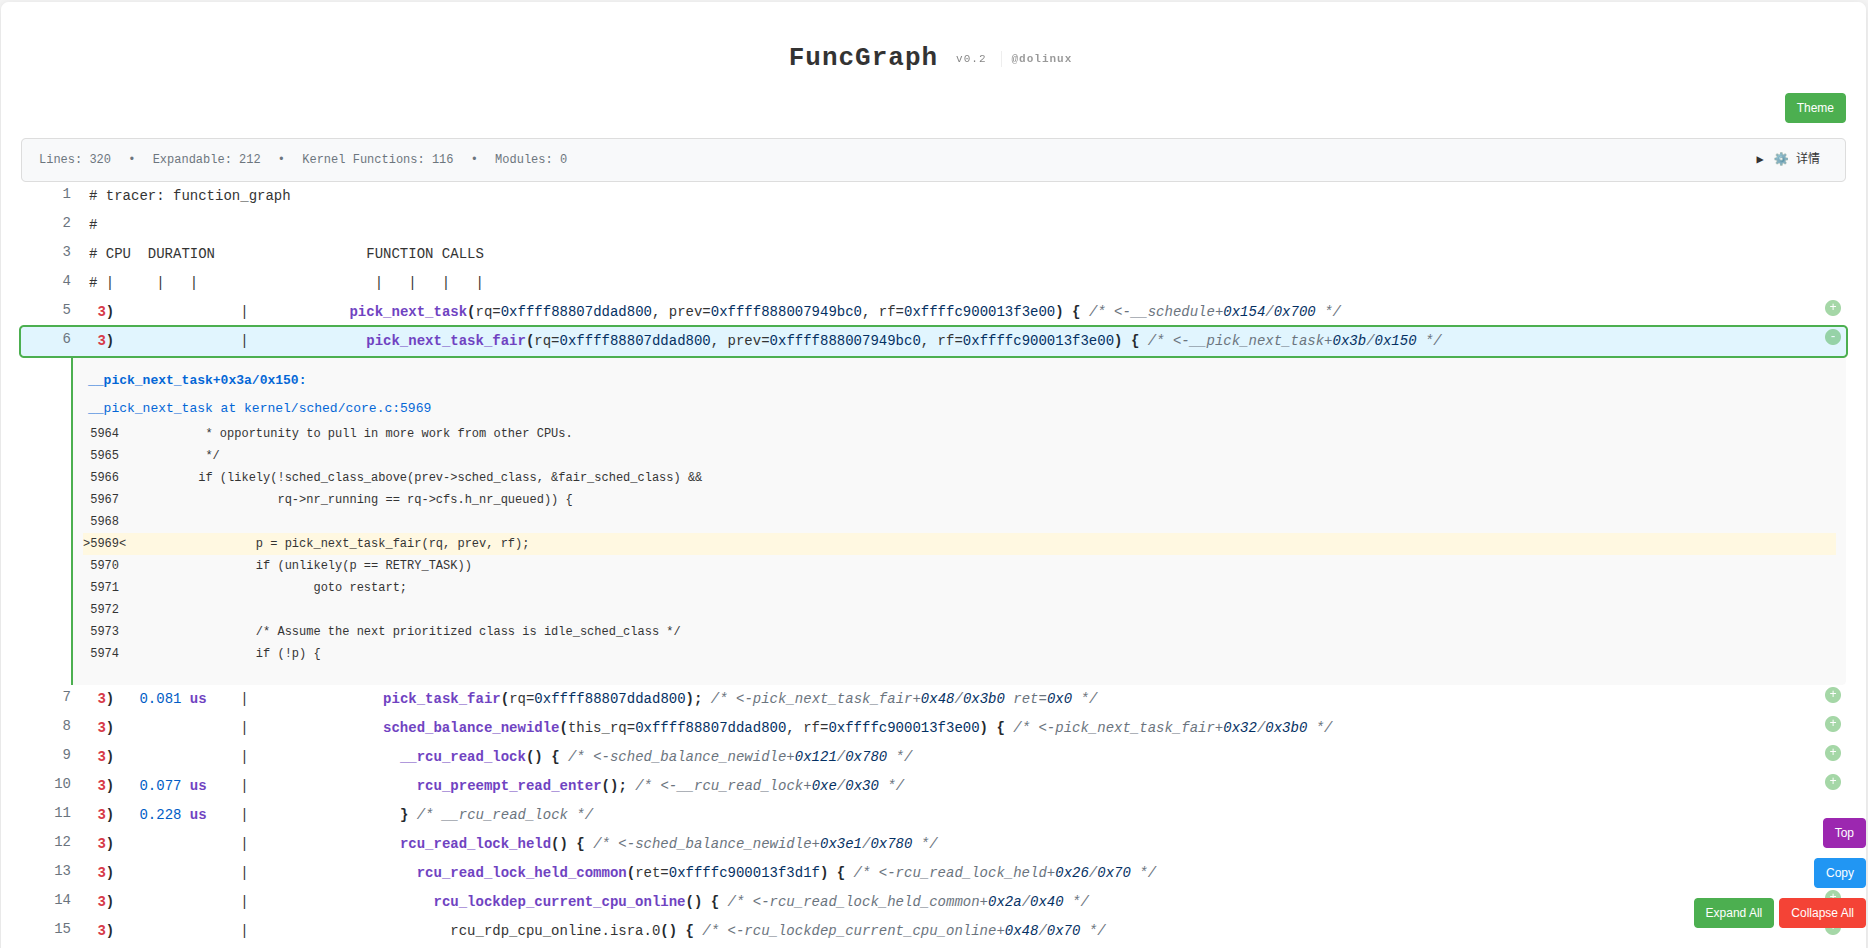
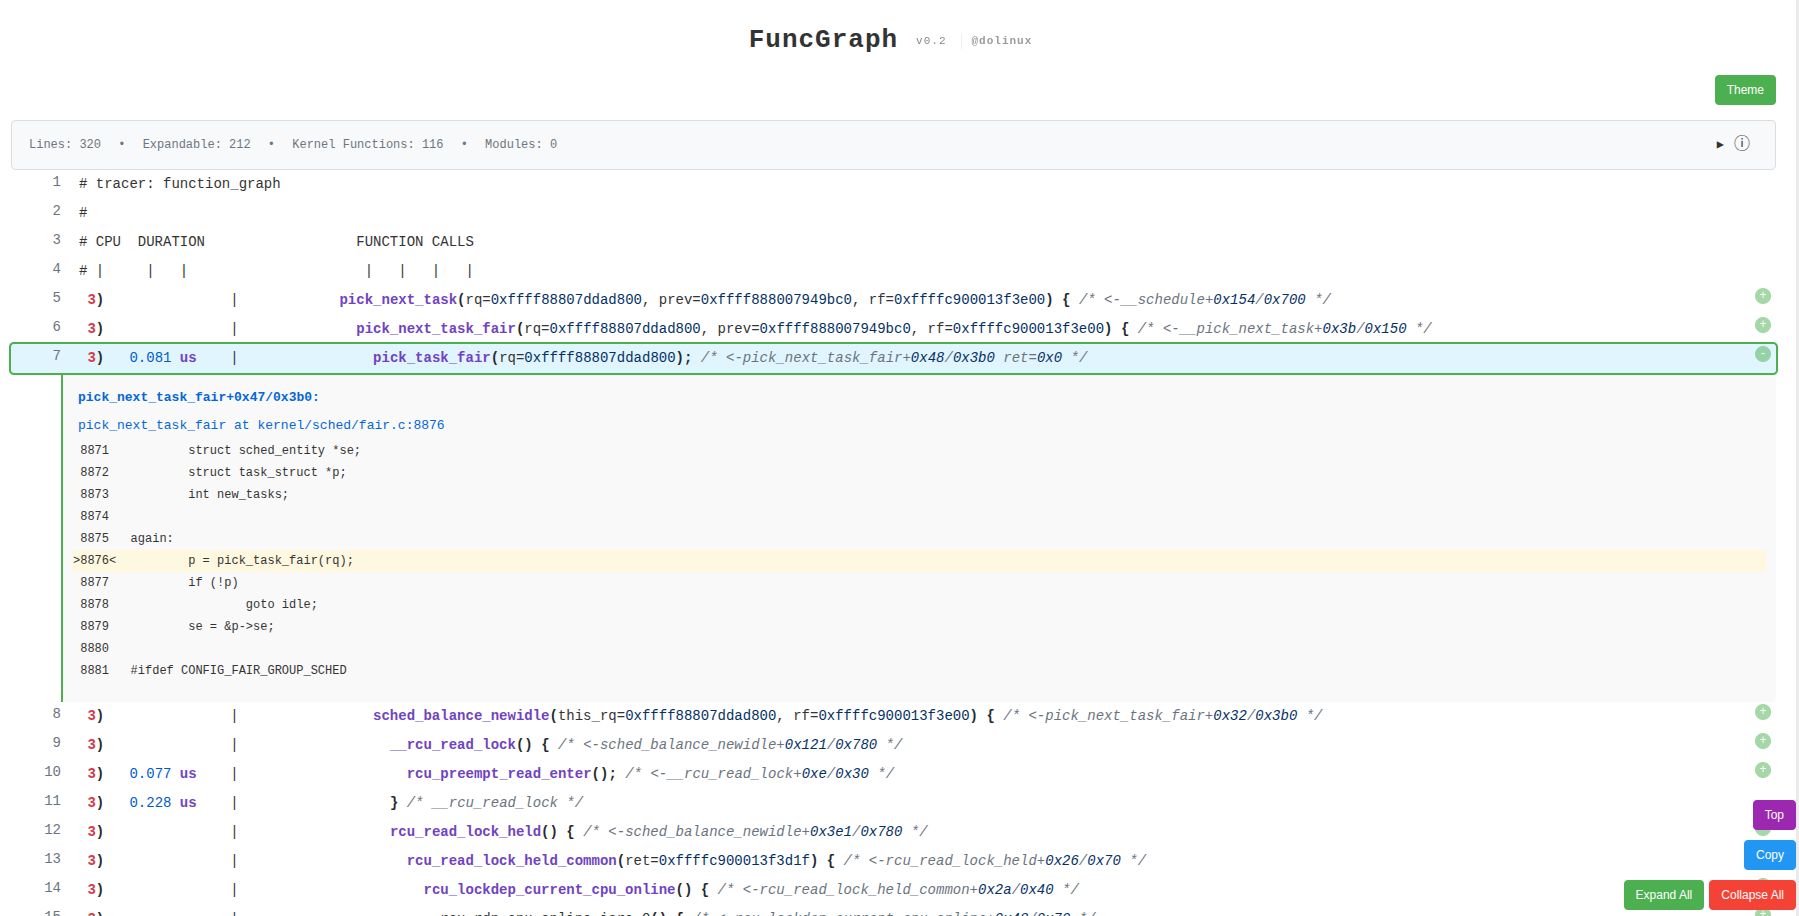
Update sample files

diff --git a/sample.html b/sample.html
@@ -335,7 +335,7 @@
             padding: 4px 8px;
             border-radius: 4px;
             transition: background-color 0.2s;
-            font-size: 12px;
+            font-size: 16px;
             color: var(--text-color);
             white-space: nowrap;
         }
@@ -728,7 +728,7 @@
             </div>
             <div class="info-toggle-btn" onclick="toggleInfoPanel()">
                 <span class="info-toggle-icon">▶</span>
-                <span>⚙ 详情</span>
+                <span>ⓘ</span>
             </div>
         </div>
         
@@ -738,20 +738,22 @@
                 <div class="info-item"><div class="info-label">OS:</div><div class="info-value">Linux 6.8.0-90-generic</div></div>
                 <div class="info-item"><div class="info-label">Hostname:</div><div class="info-value">pengdl-pc</div></div>
                 <div class="info-item"><div class="info-label">Processor:</div><div class="info-value">x86_64</div></div>
-                <div class="info-item"><div class="info-label">Generated At:</div><div class="info-value">2026-01-13 13:03:28</div></div>
+                <div class="info-item"><div class="info-label">Generated At:</div><div class="info-value">2026-01-13 23:34:29</div></div>
                 <div style="border-top: 1px solid var(--border-color); margin: 8px 0;"></div>
                 <div style="font-weight: 600; color: var(--text-color); margin-bottom: 8px; font-size: 11px;">Parameters</div>
                 <div class="info-item"><div class="info-label">Ftrace File:</div><div class="info-value">ftrace.txt</div></div>
-                <div class="info-item"><div class="info-label">Vmlinux:</div><div class="info-value">./linux-6.18_/x86_64/vmlinux</div></div>
-                <div class="info-item"><div class="info-label">Kernel Src:</div><div class="info-value">/vol_1t/Qemu/x86_64/linux-6.18_</div></div>
-                <div class="info-item"><div class="info-label">Module Dirs:</div><div class="info-value">1 items</div></div>
+                <div class="info-item"><div class="info-label">Vmlinux:</div><div class="info-value">./linux-6.18/x86_64/vmlinux</div></div>
+                <div class="info-item"><div class="info-label">Kernel Src:</div><div class="info-value">/vol_1t/Qemu/x86_64/linux-6.18</div></div>
+                <div class="info-item"><div class="info-label">Module Dirs:</div><div class="info-value">./linux-6.18/x86_64/modules_install/</div></div>
+                <div class="info-item"><div class="info-label">Module Srcs:</div><div class="info-value">(empty)</div></div>
                 <div class="info-item"><div class="info-label">Base Url:</div><div class="info-value">https://elixir.bootlin.com/linux/v6.18/source</div></div>
+                <div class="info-item"><div class="info-label">Module Url:</div><div class="info-value">(none)</div></div>
                 <div class="info-item"><div class="info-label">Output:</div><div class="info-value">x86_64_ftrace.txt.html</div></div>
                 <div class="info-item"><div class="info-label">Auto Search:</div><div class="info-value">No</div></div>
                 <div class="info-item"><div class="info-label">Fast:</div><div class="info-value">Yes</div></div>
                 <div class="info-item"><div class="info-label">Use External:</div><div class="info-value">No</div></div>
                 <div class="info-item"><div class="info-label">Highlight Code:</div><div class="info-value">No</div></div>
-                <div class="info-item"><div class="info-label">Path Prefix:</div><div class="info-value">(none)</div></div>
+                <div class="info-item"><div class="info-label">Path Prefix:</div><div class="info-value">(empty)</div></div>
 
         </div>
         
